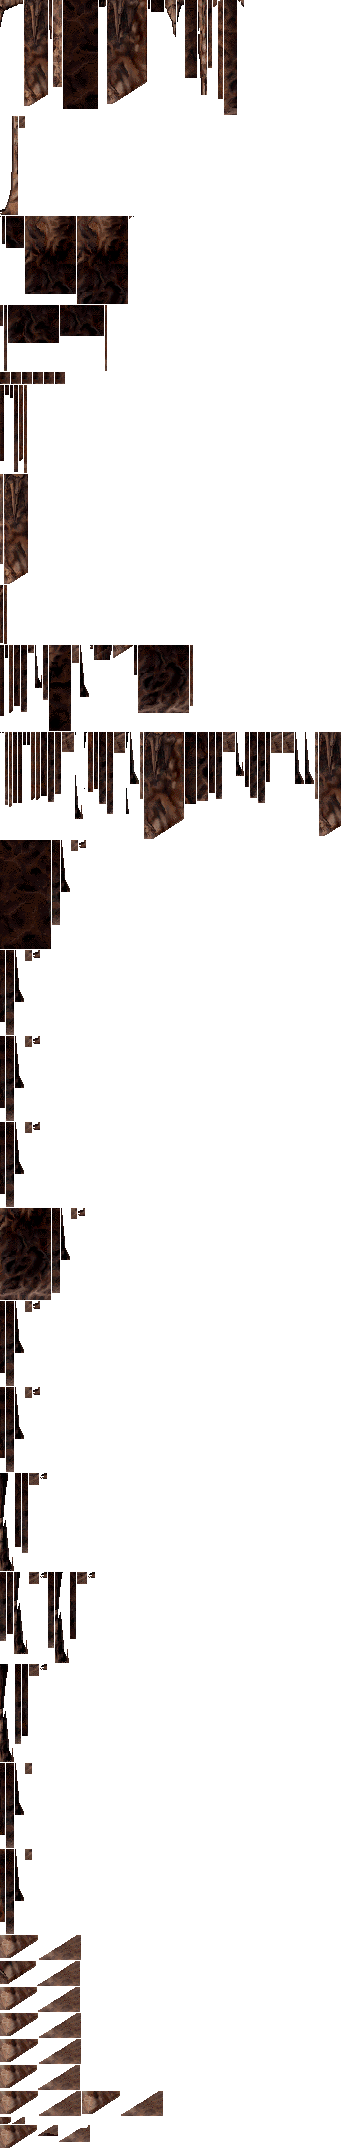
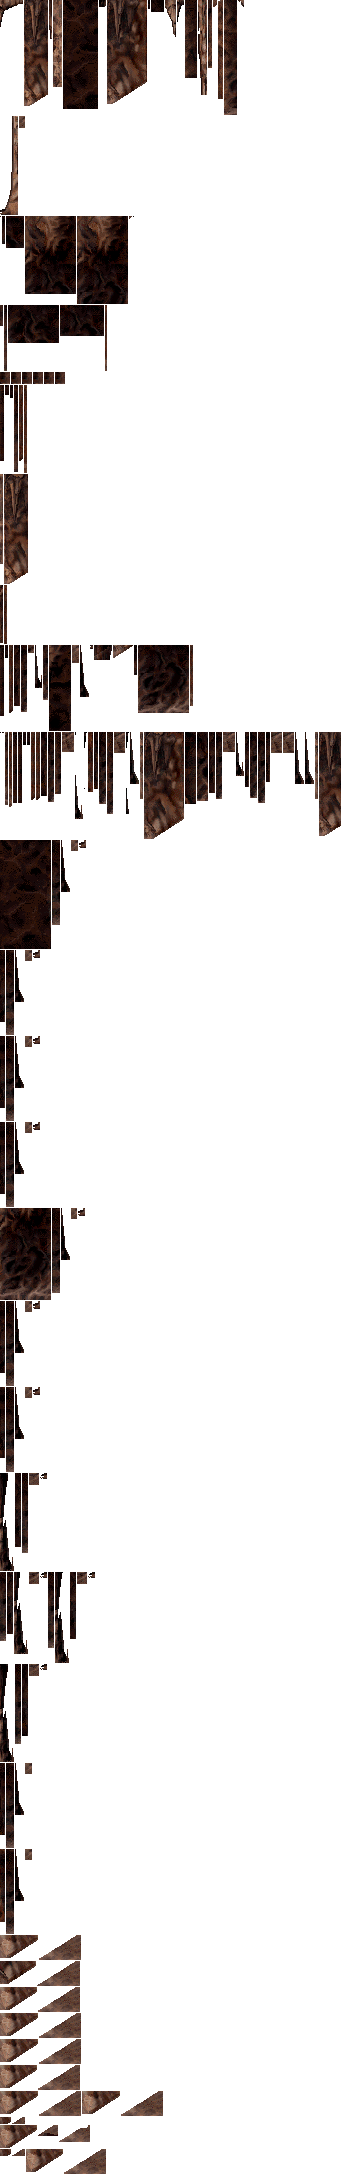
Blend approved floor joins in level 5 room 11

Changed region(s): [[0.0, 0.0624, 1.0, 1.0], [0.0585, 0.0312, 0.117, 0.0624], [0.3216, 0.0312, 0.3509, 0.0624]]

diff --git a/tests/test_level5_cavern_retouch.py b/tests/test_level5_cavern_retouch.py
@@ -15,6 +15,7 @@ from pop2.render_opening import load_resource_file
 
 # Port room indices; room7's approval is viewed with its stone gate fully open.
 APPROVED = {
[4 lines of base64/hex data omitted]
@@ -31,7 +32,7 @@ APPROVED = {
 class BundledLevelFiveArtworkTests(unittest.TestCase):
     def test_approved_scope_and_changed_source_guards(self):
         assets = retouch_assets(5)
-        self.assertEqual(len(assets), 55)
+        self.assertEqual(len(assets), 59)
         self.assertEqual({key[0] for key in assets}, set(APPROVED))
         for key, (record, image) in assets.items():
             room, shape, x, bottom, mode = key

diff --git a/tests/test_floor_join_artwork.py b/tests/test_floor_join_artwork.py
@@ -13,6 +13,9 @@ from tests import test_cavern_retouch as retouch_tests
 
 # Native level/room, approved cached RGB, preserved foreground RGBA, source placements.
 APPROVED_FLOOR_JOINS = {
[2 lines of base64/hex data omitted]
+               ((3551, 153, 245, 16), (3525, 155, 245, 16), (3551, 51, 365, 16), (3525, 53, 365, 16))),
[2 lines of base64/hex data omitted]
                ((3551, 102, 245, 16), (3556, 127, 232, 16), (3557, 102, 245, 16))),

diff --git a/pop2/cavern_retouch.py b/pop2/cavern_retouch.py
@@ -88,7 +88,7 @@ def retouched_door_sprite(level, room, command, source):
 def retouched_sprite(room, command, source, *, level_number=3):
     approved = (room in (0, 1, 4, 6, 7, 10, 11, 12, 14, 20, 23, 25, 27, 29, 31) if level_number == 3
                 else room in (4, 5, 11, 12, 13, 17, 21, 22, 25, 27) if level_number == 4
-                else level_number == 5 and room in (1, 5, 6, 13, 14, 15, 16, 21, 22, 24))
+                else level_number == 5 and room in (1, 5, 6, 10, 13, 14, 15, 16, 21, 22, 24))
     if not approved or len(command) < 8 or command[7] != 4:
         return source
     key = (room, command[1], command[2], command[3], command[4])

diff --git a/docs/CAVERN_ARTWORK.md b/docs/CAVERN_ARTWORK.md
@@ -299,3 +299,4 @@ Comparisons stay local under `rendered/floor-join-selected-v3/`.
[4 lines of base64/hex data omitted]
